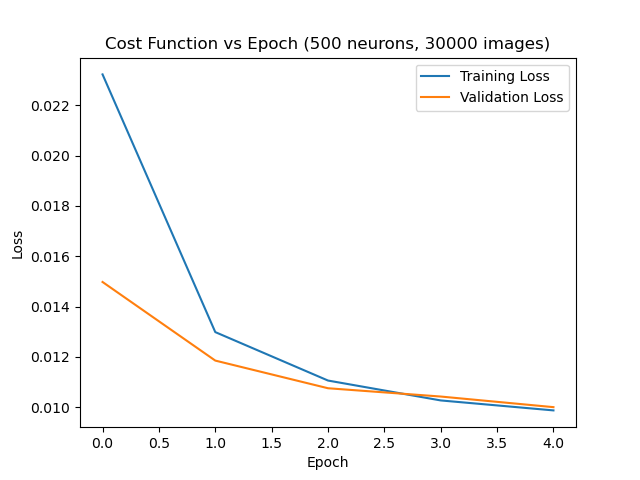
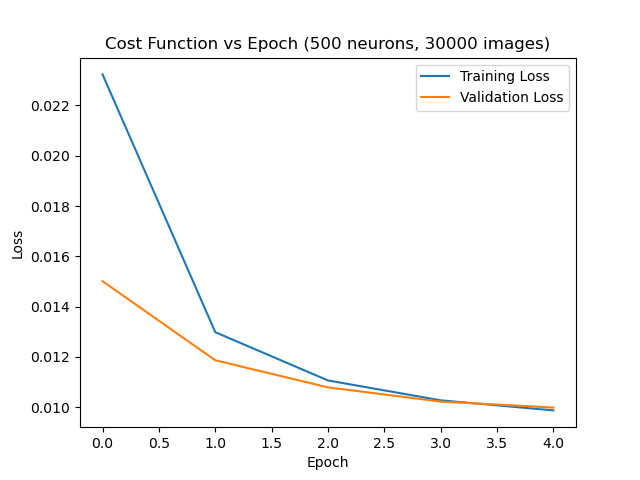
Add ANNpictures and training/validation loss files

diff --git a/mylossplot.py b/mylossplot.py
@@ -1,0 +1,54 @@
+import numpy as np
+import matplotlib.pyplot as plt
+
+# Replace these lists with the actual numbers of neurons and training examples you used
+neurons_list = [500,1000,2000]
+img_list = [1000, 3000, 10000, 30000]
+
+plt.figure()
+
+# Loop over all combinations of neurons and images
+for n_neurons in neurons_list:
+    for n_img in img_list:
+        # Load the validation loss array
+        val_loss = np.load(f'ANNpictures/validation_loss_{n_neurons}n_{n_img}img.npy')
+        
+        # Plot the validation loss
+        plt.plot(val_loss, label=f'{n_neurons} neurons, {n_img} images')
+
+# Add a legend
+plt.legend()
+
+# Add labels and a title
+plt.xlabel('Epoch')
+plt.ylabel('Validation Loss')
+plt.title('Validation Loss vs Epoch for Different Numbers of Neurons and Training Examples')
+#savefig
+plt.savefig(f'ANNpictures/validation_loss_{n_neurons}n_{n_img}img.png')
+
+# Show the plot
+plt.show()
+
+#do the same for training loss
+plt.figure()
+
+# Loop over all combinations of neurons and images
+for n_neurons in neurons_list:
+    for n_img in img_list:
+        # Load the training loss array
+        train_loss = np.load(f'ANNpictures/training_loss_{n_neurons}n_{n_img}img.npy')
+        
+        # Plot the training loss
+        plt.plot(train_loss, label=f'{n_neurons} neurons, {n_img} images')
+
+# Add a legend
+plt.legend()
+
+# Add labels and a title
+plt.xlabel('Epoch')
+plt.ylabel('Training Loss')
+plt.title('Training Loss vs Epoch for Different Numbers of Neurons and Training Examples')
+#savefig
+plt.savefig(f'ANNpictures/training_loss_{n_neurons}n_{n_img}img.png')
+# Show the plot
+plt.show()

diff --git a/myanalyse_fakev1.py b/myanalyse_fakev1.py
@@ -14,6 +14,10 @@ path = os.path.expanduser(path)
 #       do when generating the data
 n_neu=[500,1000,2000]
 numbers_of_images = [1000, 3000, 10000, 30000]
+#CREATE FOLDER FOR SAVING PICTURES
+if not os.path.exists('ANNpictures'):
+    os.makedirs('ANNpictures')
+
 
 for n_neurons in n_neu:
 
@@ -100,6 +104,9 @@ for n_neurons in n_neu:
         # Plotting the training and validation loss
         plt.plot(history.history['loss'], label='Training Loss')
         plt.plot(history.history['val_loss'], label='Validation Loss')
+        #I want to save the values for later use
+        np.save(f'ANNpictures/training_loss_{n_neurons}n_{n_img}img', history.history['loss'])
+        np.save(f'ANNpictures/validation_loss_{n_neurons}n_{n_img}img', history.history['val_loss'])
         plt.xlabel('Epoch')
         plt.ylabel('Loss')
         plt.legend()
@@ -127,8 +134,6 @@ for n_neurons in n_neu:
                 axs[1, i].set_title("reconstructed")
             axs[1, i].axis('off')
         #save figure
-
-        plt.savefig(f'ANNpictures/orig+reconstructed_{n_neurons}n_{n_img}imag.png')
         plt.title(f'Original vs Reconstructed ({n_neurons} neurons, {n_img} images)')
         plt.savefig(f'ANNpictures/orig_vs_reconstructed_{n_neurons}n_{n_img}img.png')
         plt.show()
@@ -157,5 +162,6 @@ for n_neurons in n_neu:
                 axs[1, i].set_title("Estimated RF")
             axs[1, i].axis('off')
         #it should be saved inside ANNpictures folder
+        plt.title(f'RFs ({n_neurons} neurons, {n_img} images)') 
         plt.savefig(f'ANNpictures/RFs_{n_neurons}n_{n_img}img.png')
         plt.show()
